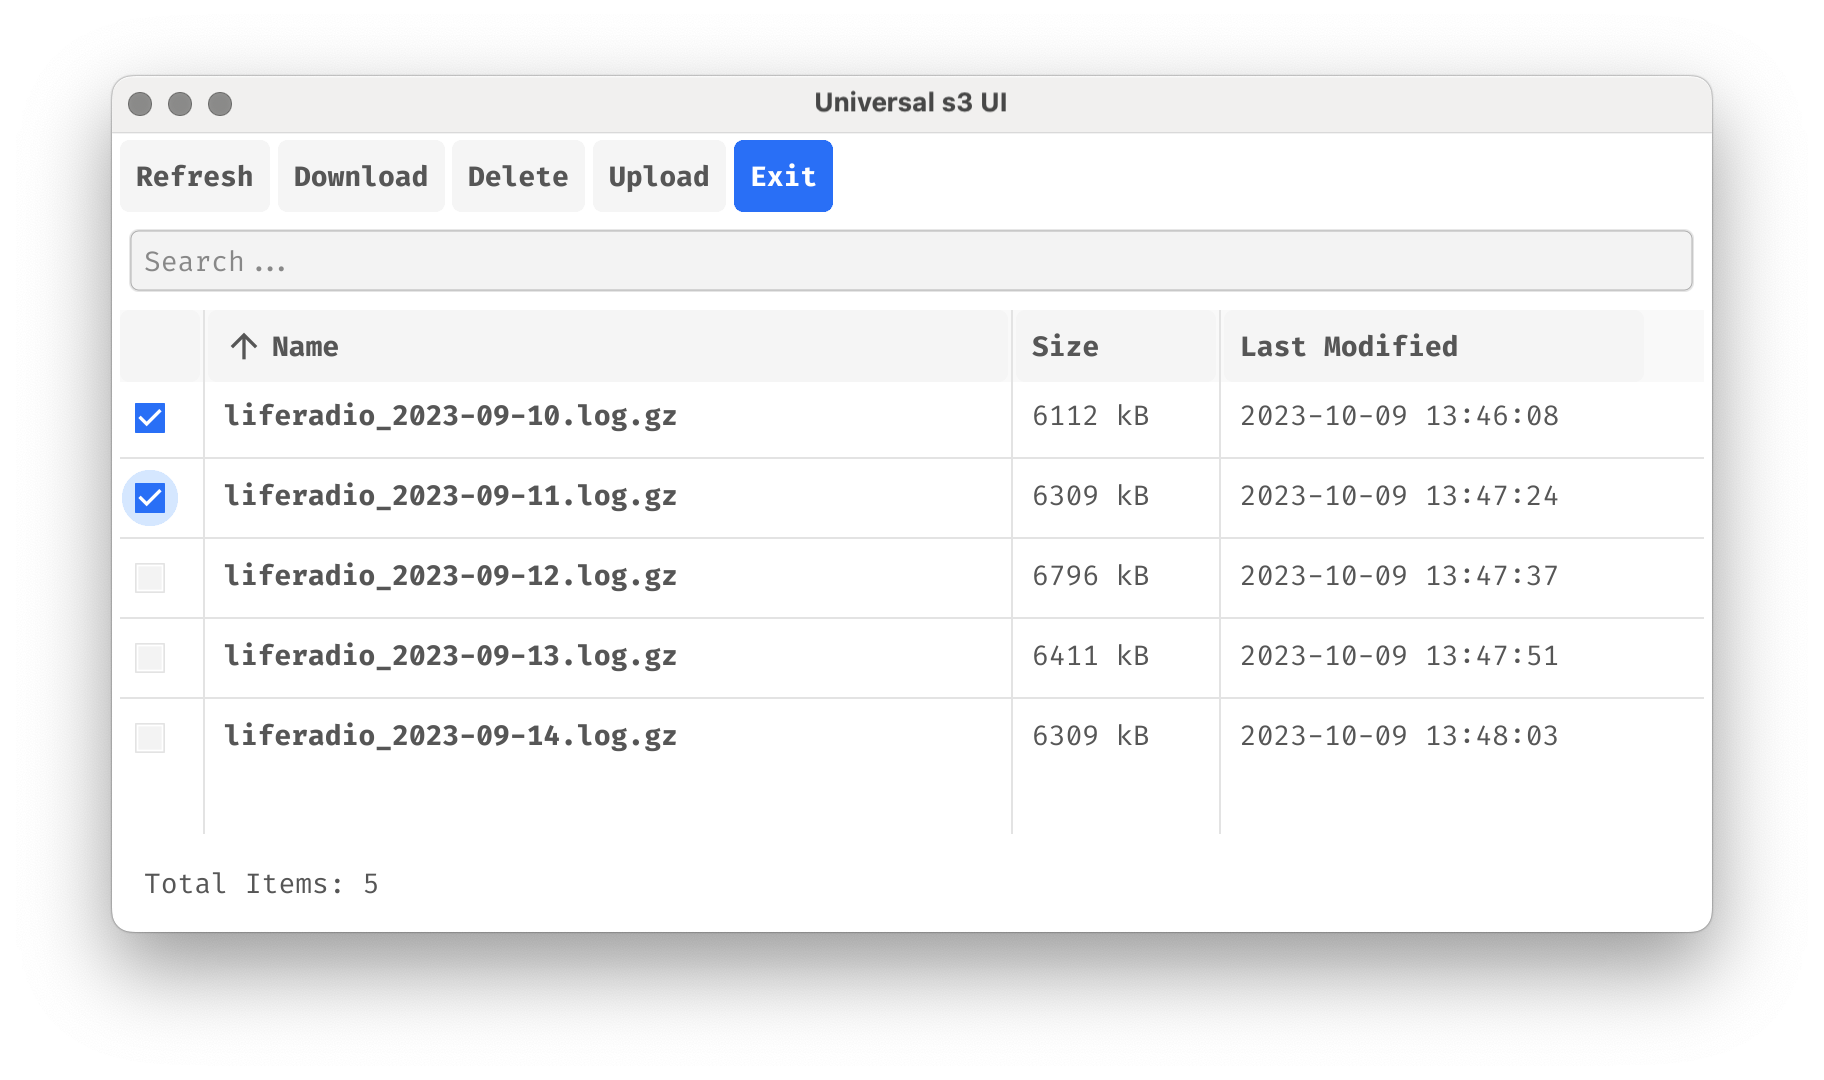
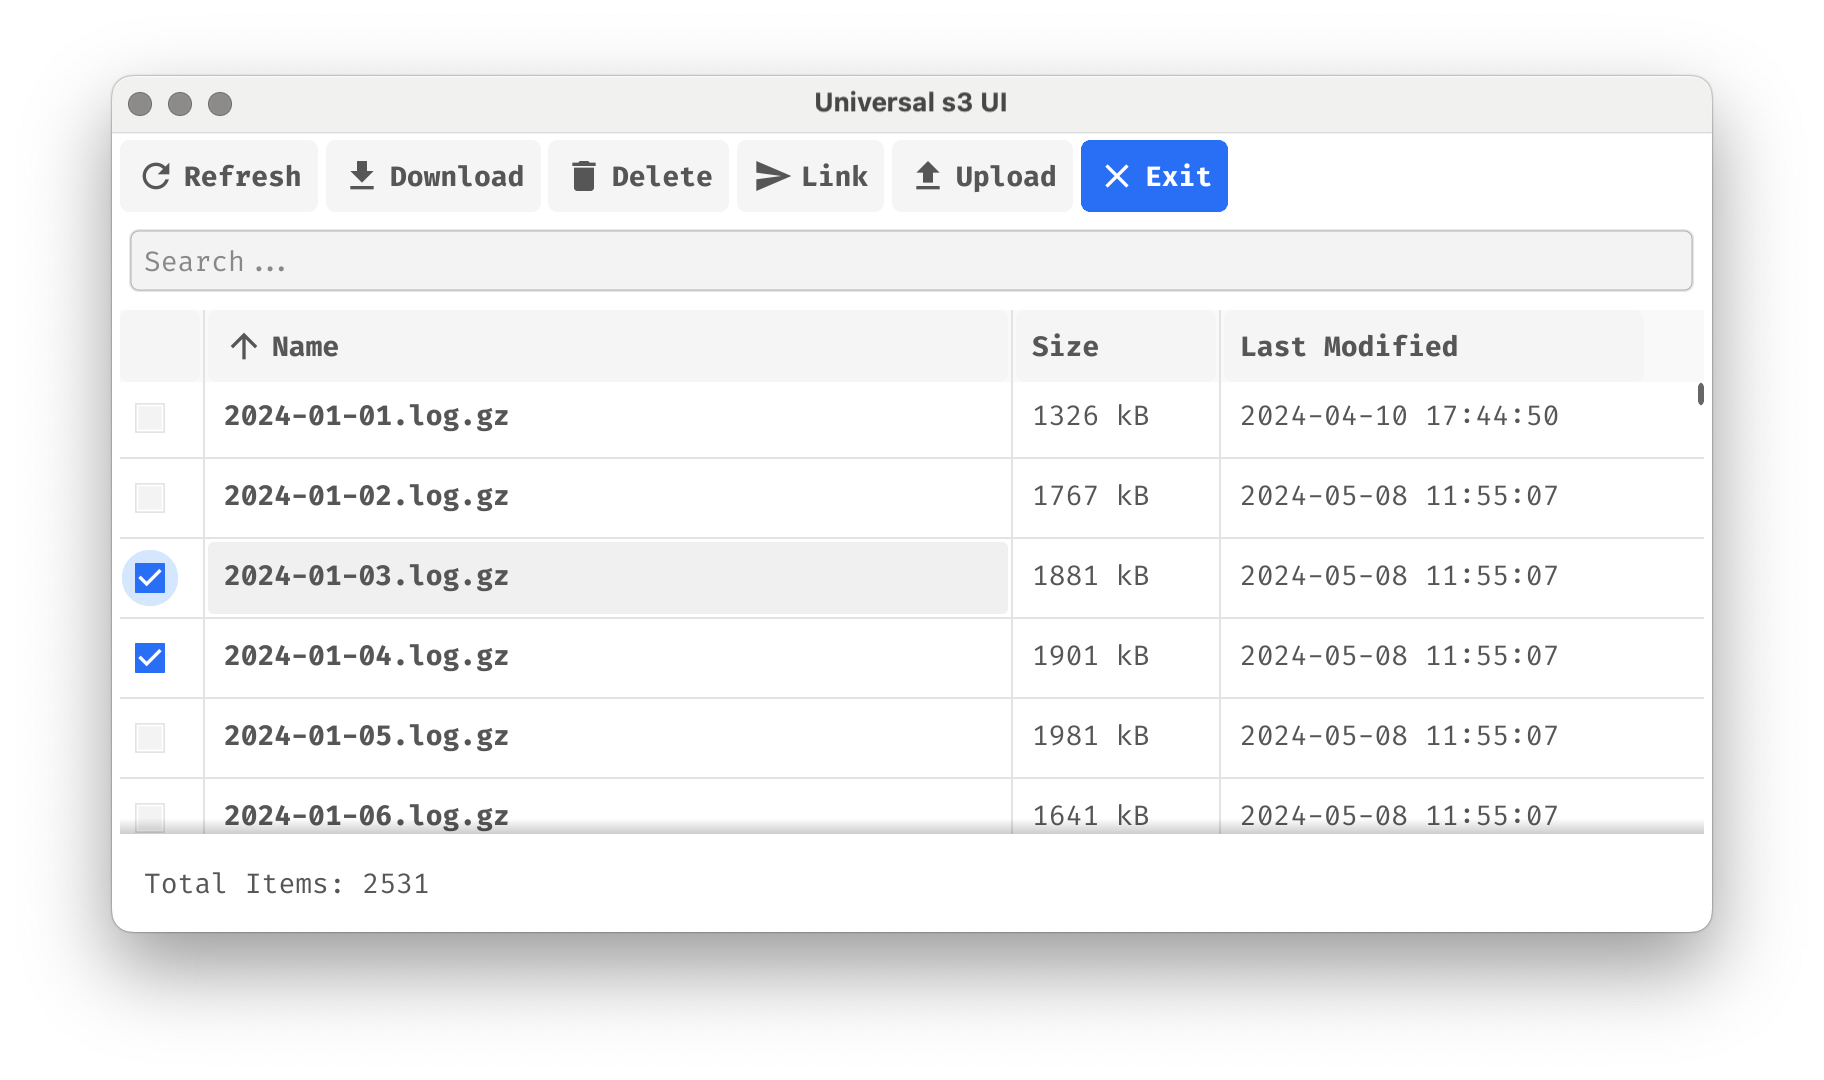
chore: extend presigned URL validity to one hour and update README for link generation

diff --git a/windows/mainwindow.go b/windows/mainwindow.go
@@ -409,7 +409,7 @@ func (mw *MainWindow) handleLink(ctx context.Context) {
 
 	for idx := range mw.selectedIndex {
 		obj := mw.currentObjects[idx]
-		linkurl, err := mw.s3svc.GetPresignedURL(ctx, obj.Key, 5*time.Minute)
+		linkurl, err := mw.s3svc.GetPresignedURL(ctx, obj.Key, 1*time.Hour)
 		if err != nil {
 			dialog.ShowError(err, mw.window)
 			return

diff --git a/README.md b/README.md
@@ -9,11 +9,12 @@ Universal S3 UI is a lightweight, cross-platform graphical user interface for ma
 - **File Management**:
     - Browse objects in your bucket with size information
     - Upload local files to your bucket
-    - Download objects from your bucket
-    - Delete objects with confirmation dialog
+    - Download selected files from your bucket to your local machine
+    - Delete objects
+    - Select files and generate temporary download links valid for one hour
     - Refresh bucket contents
 - **Asynchronous Loading**: Load objects without blocking the UI
-- **Search Functionality**: Easily find objects in your bucket
+- **Search Functionality**: Easily find objects with simple fulltext search
 - **Progress Tracking**: Visual progress bar for long-running operations
 - **Pagination**: Load objects in batches for improved performance
 - **Detailed Object Information**: View object name, size, and last modified date
@@ -56,10 +57,9 @@ The configuration values can also be preset using CLI flags or environment varia
 4. Use the main interface to:
     - View objects in your bucket with detailed information
     - Use the search bar to find specific objects
-    - Click "Refresh" to update the object list asynchronously
-    - Select one or multiple objects and use "Download" or "Delete" buttons
-    - Use "Upload" to add new files to your bucket
-    - Monitor progress for long-running operations
+    - Select one or multiple objects to download or delete files
+    - Use upload to add new local files to your bucket
+    - Select files and generate temporary download links
     - Click "Exit" to close the application
 
 ## Screenshots
